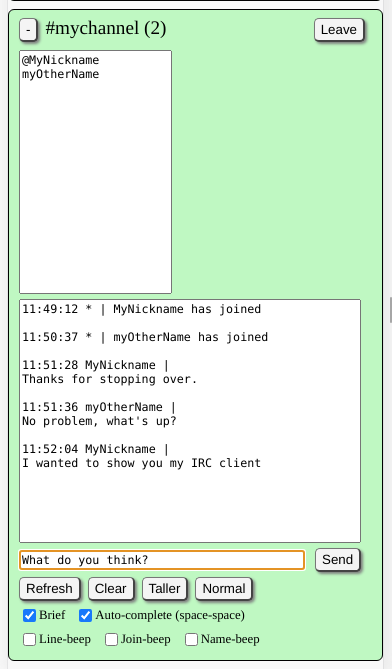
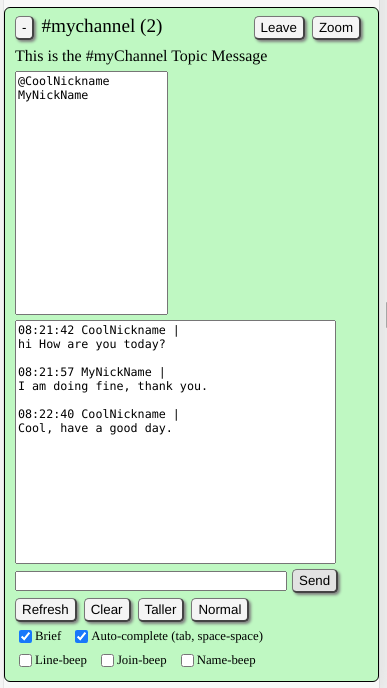
Update screen captures images in /docs

diff --git a/docs/index.html b/docs/index.html
@@ -38,6 +38,12 @@
         <p>
           This project is still under development and changes frequently.
         </p>
+        <p>
+          The development and debugging were done using an iPhone and IOS Chrome Browser.
+          The examples on this page are limited to mobile phone screen shots. However,
+          the IRC client also works well using Chrome desktop browser on Linux. The desktop
+          and mobile browser can be opened concurrently and will remain in sync.
+        </p>
 
         <div class="home-detail">
           <div class="image-text">
@@ -83,10 +89,9 @@
             </p>
           </div>
           <div class="image-photo">
-            <img src=images/irc-login.png width="389" height="639"alt="IRC login form">
+            <img src=images/irc-login.png width="391" height="507"alt="IRC login form image">
           </div>
         </div>
-
 
         <div class="home-detail">
           <div class="image-text">
@@ -95,11 +100,10 @@
               server is logged into the IRC network.
             </p>
             <p>
-              The user interface for this program is divided into
-              collapsible sections that can be expanded with the [+]
-              buttons located on the left. The interface can be returned
-              to this configuration with all sections collapsed by tapping the [-all]
-              button in the status bar at the top.
+              Up on successful connection to the IRC server, a lot of content
+              will scroll within the server window.
+              This includes information about the server and the IRC server message
+              of the day (motd).
             </p>
             <p>
               At any time you can disconnect from the IRC server by tapping the
@@ -107,15 +111,33 @@
               from the web page, leaving your nickname present on IRC by
               tapping the green [Web] icon at the top.
             </p>
+          </div>
+          <div class="image-photo">
+            <img src=images/irc-connected.png width="388" height="650" alt="IRC connected image">
+          </div>
+        </div>
+
+        <div class="home-detail">
+          <div class="image-text">
+            <p>
+              The user interface for this program is divided into
+              collapsible sections that can be expanded with the [+]
+              buttons located on the left. The interface can be returned
+              to this configuration with all sections collapsed by tapping the [-all]
+              button in the status bar at the top.
+            </p>
+            <p>
+              In this case, server window was closed with the [-] Server button.
+            </p>
             <p>
               If you defined some favorite IRC channel names in the configuration
               file, buttons will be added to allow easy navigation
               to join channels while using a smartphone. In this example
-              we will tap the "#mychannel" button.
+              we will tap the "#myChannel" button.
             </p>
           </div>
           <div class="image-photo">
-            <img src=images/collapsed.png width="386" height="637"alt="Main view collapsed">
+            <img src=images/collapsed.png width="384" height="425"alt="Main view collapsed image">
           </div>
         </div>
 
@@ -123,8 +145,6 @@
         <div class="home-detail">
           <div class="image-text">
             <p>
-              This IRC channel interface should be expected to evolve in the future.
-            </p><p>
               The channel name and topic are displayed at the top of the channel window.
               Below the title is a list of nicknames for users present in the channel,
               followed by a text area where messages are displayed.
@@ -137,7 +157,6 @@
               include channel name and nicknames present on the channel list.
               The auto-complete trigger is tab character, or double space
               (space-space) on mobile devices. Double tab or triple space fills channel name.
-              Auto-complete is only available in channel windows.
             </p><p>
               Checkboxes can be selected to enable an audible beep tone to
               trigger when messages are typed in the channel, or when your
@@ -146,7 +165,28 @@
             </p>
           </div>
           <div class="image-photo">
-            <img src=images/channel-vertical.png width="392" height="669"alt="Channel Vertical">
+            <img src=images/channel-vertical.png width="387" height="688"alt="Channel Vertical image">
+          </div>
+        </div>
+
+        <div class="home-detail">
+          <div class="image-text">
+            <p>
+              Pressing the [Zoom] button in the upper right of the channel window
+              will select channel zoom mode.
+            </p>
+            <p>
+              Zoom mode will collapse all other windows.
+            </p>
+            <p>
+              While in channel zoom mode, the buttons and checkboxes at the
+              bottom of the channel window will be hidden.
+              If the screen width is below a minimum value, the nickname list is also hidden.
+              The hidden items can be toggled to visible by clicking the [Zoom] / [No Zoom] button.
+            </p>
+          </div>
+          <div class="image-photo">
+            <img src=images/channel-zoom.png width="385" height="691"alt="Channel Zoom mode image">
           </div>
         </div>
 
@@ -155,15 +195,17 @@
             <p>
               When the smartphone is flipped on it's side, the screen layout
               will adapt to the new screen width.
+              In this case the channel is still enabled.
             </p>
             <p>
               There are two different text format schemes that are selected
               automatically when the page loads. These can be toggled at any
               time by selecting the checkbox marked: [X] Brief.
+              The Brief checkbox is not visible here because the Zoom was enabled.
             </p>
           </div>
           <div class="image-photo">
-            <img src=images/channel-horizontal.png width="684" height="353"alt="Channel Horizontal">
+            <img src=images/channel-horizontal.png width="725" height="340"alt="Channel Horizontal image">
           </div>
         </div>
 
@@ -177,7 +219,8 @@
               A limited set of IRC text commands are supported.
               Text commands start with a slash / character and
               text commands can be entered in any of the windows.
-              The server window supports limited auto complete.
+              If you scroll to the top, the Info/License window
+              includes a list of supported IRC text commands.
             </p>
             <p>
               Buttons marked [Refresh] are located on several windows.
@@ -191,7 +234,7 @@
             </p>
           </div>
           <div class="image-photo">
-            <img src=images/server-message.png width="686" height="331"alt="IRC Server Horizontal">
+            <img src=images/server-message.png width="686" height="331"alt="IRC Server message image">
           </div>
         </div>
 
@@ -204,11 +247,14 @@
               A separate window is used for each separate nickname.
             </p>
             <p>
+              The checkbox at the bottom enables an audible sound beep when messages arrive.
+            </p>
+            <p>
               DCC CHAT messaging is not supported.
             </p>
           </div>
           <div class="image-photo">
-            <img src=images/private-message.png width="393" height="657"alt="Private Message">
+            <img src=images/private-message.png width="389" height="597"alt="Private Message image">
           </div>
         </div>
 
@@ -221,7 +267,7 @@
             </p>
           </div>
           <div class="image-photo">
-            <img src=images/notice-vert.png width="394" height="668"alt="Notice and Wallops">
+            <img src=images/notice-vert.png width="386" height="627"alt="Notice and Wallops image">
           </div>
         </div>
 

diff --git a/docs/history.html b/docs/history.html
@@ -33,11 +33,12 @@
           Change Log
         </div>
         <p>
-          (next)
+          2021-06-27 (0.1.10)
           Rewrite browser javascript used to dynamically resize textarea elements.
           Move channel dynamic element resize from global to channel element and PM element.
           Change visibility and order of windows, first join IRC channel at bottom.
           Add zoom button to channel window.
+          Updated screen capture images in the docs/ folder.
         </p>
         <p>
           2021-06-24 (0.1.9)
